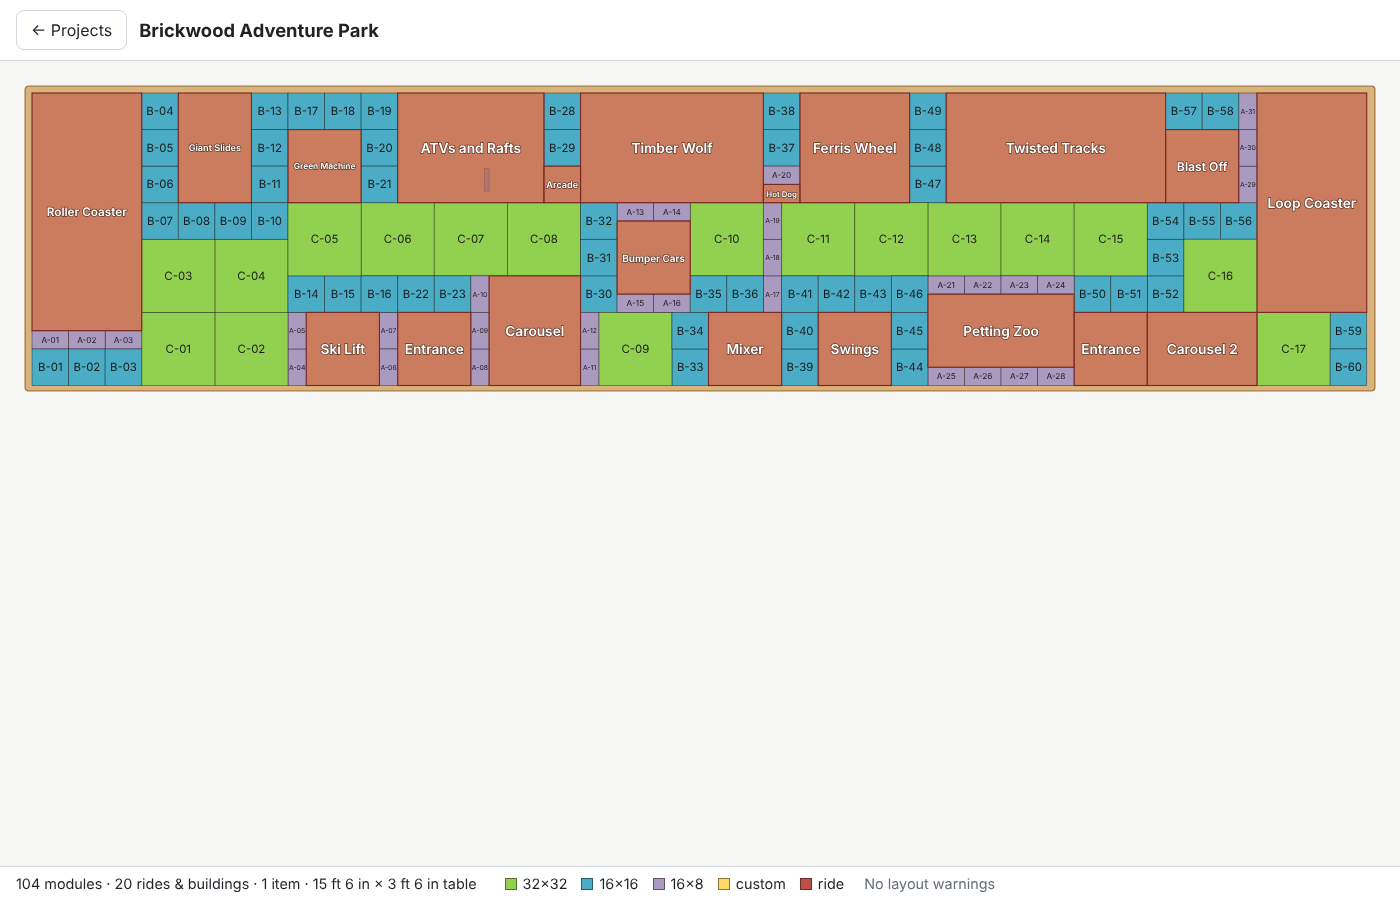
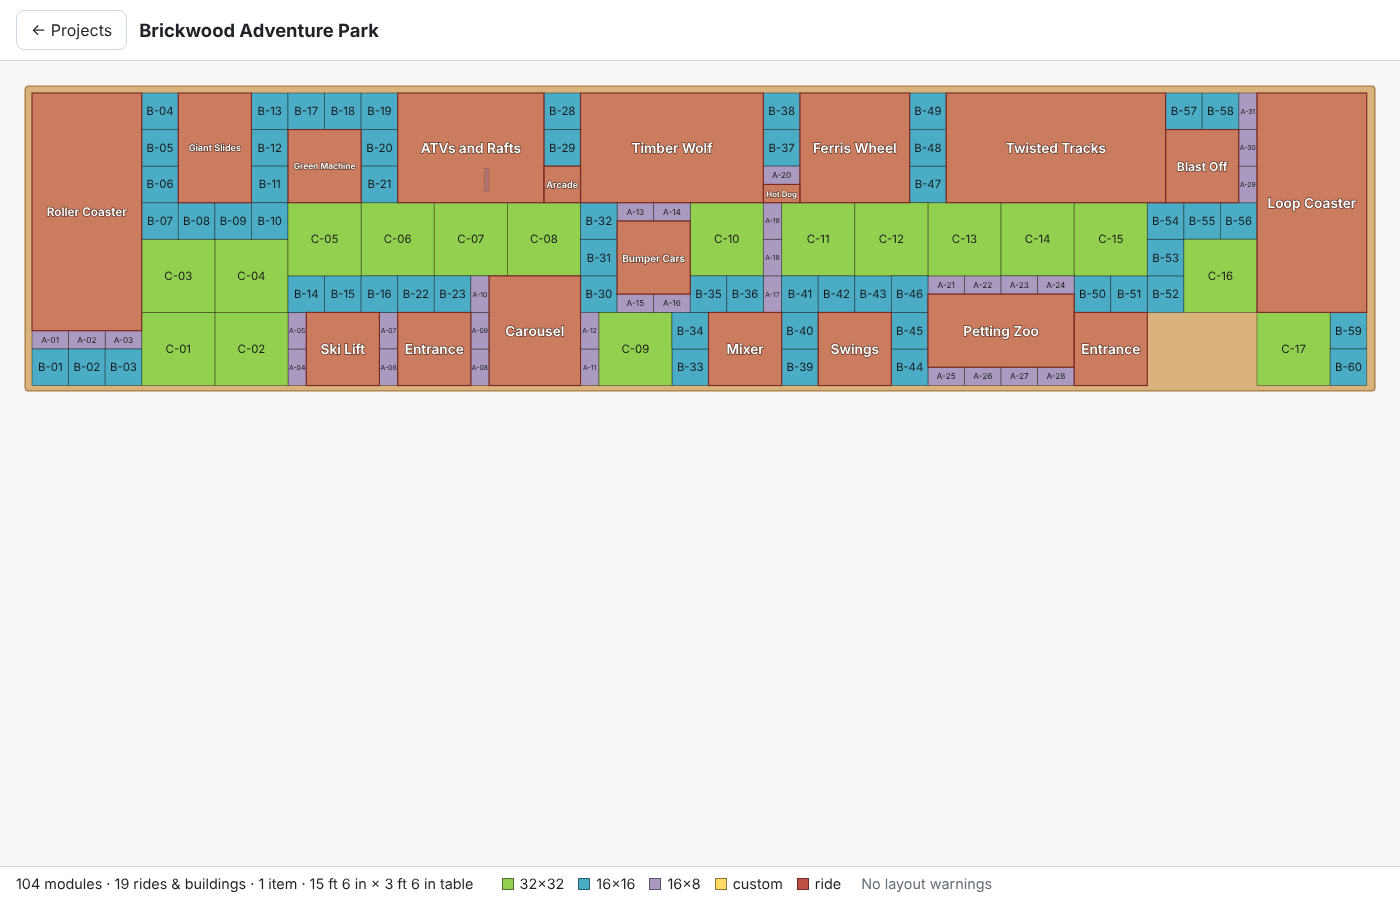
Apply owner answers: drop stored carousel, unlabelled Kingdom plates
- Carousel confirmed as the Big Carousel (9 V); the Small Carousel
  (Carousel 2) is in storage, so it is left out of the Adventure Park
  starter with an import note
- Kingdom buildings are built directly on their plate as one unit: MILS
  labels are now optional, those plates have no label, and the building
  name is shown instead; empty labels are skipped by the duplicate check
- Tests updated (37 unit, 12 browser, all passing); report and
  screenshots refreshed

Claude-Session: https://claude.ai/code/session_01TiwodiqoiEvFL33jxuKAek

Changed region(s): [[0.7986, 0.3422, 0.9214, 0.4356], [0.3686, 0.9644, 0.7064, 0.9956], [0.0921, 0.9644, 0.3379, 0.9956]]

diff --git a/tests/unit/starters.test.ts b/tests/unit/starters.test.ts
@@ -1,6 +1,6 @@
 import { describe, expect, it } from 'vitest';
 import { starterProjects } from '../../src/starters';
-import { checkLayout, footprint } from '../../src/domain/geometry';
+import { checkLayout } from '../../src/domain/geometry';
 import { ProjectSchema } from '../../src/domain/schema';
 import { projectStats } from '../../src/domain/project';
 import { studsToInches } from '../../src/domain/units';
@@ -29,15 +29,18 @@ describe('starter projects from Visio CSV', () => {
   it('Adventure Park ride footprints carry names and power', () => {
     const rides = park!.project.objects.filter((o) => o.type === 'footprint');
     const names = rides.map((r) => r.name);
-    for (const n of ['Ferris Wheel', 'Timber Wolf', 'Roller Coaster', 'Loop Coaster', 'Twisted Tracks', 'Carousel', 'Carousel 2', 'Swings', 'Mixer', 'Blast Off', 'Green Machine', 'Bumper Cars', 'ATVs and Rafts', 'Ski Lift', 'Giant Slides', 'Petting Zoo', 'Entrance', 'Arcade', 'Hot Dog']) {
+    for (const n of ['Ferris Wheel', 'Timber Wolf', 'Roller Coaster', 'Loop Coaster', 'Twisted Tracks', 'Carousel', 'Swings', 'Mixer', 'Blast Off', 'Green Machine', 'Bumper Cars', 'ATVs and Rafts', 'Ski Lift', 'Giant Slides', 'Petting Zoo', 'Entrance', 'Arcade', 'Hot Dog']) {
       expect(names).toContain(n);
     }
     expect(rides.find((r) => r.name === 'Ferris Wheel')!.powerVolts).toBe(9);
     expect(rides.find((r) => r.name === 'Green Machine')!.powerVolts).toBe(6);
-    // Carousel 2 is rotated 90° in the drawing: 15 in wide on screen.
-    const c2 = rides.find((r) => r.name === 'Carousel 2')!;
-    expect(footprint(c2).width).toBe(48);
-    expect(footprint(c2).depth).toBe(32);
+    expect(rides.find((r) => r.name === 'Carousel')!.powerVolts).toBe(9);
+    expect(rides).toHaveLength(19);
+  });
+
+  it('the Small Carousel (Carousel 2) is in storage, so it is left out with a note', () => {
+    expect(park!.project.objects.some((o) => o.name === 'Carousel 2')).toBe(false);
+    expect(park!.notes.find((n) => n.label === 'Carousel 2')!.message).toMatch(/in storage/);
   });
 
   it('Visio Y-up is flipped to app Y-down', () => {
@@ -61,6 +64,16 @@ describe('starter projects from Visio CSV', () => {
     expect(size('Farmhouse')).toEqual([32, 48, 'custom']);
     expect(size('Sentry Tower')).toEqual([32, 32, '32x32']);
     expect(size("Witch’s House")).toEqual([32, 32, '32x32']);
+  });
+
+  it('Kingdom buildings built directly on their plate are one unit with no plate ID', () => {
+    const bases = kingdom!.project.modules.filter((m) => m.name);
+    expect(bases).toHaveLength(14);
+    for (const b of bases) {
+      expect(b.label).toBe('');
+      expect(b.notes).toMatch(/one unit/);
+    }
+    expect(new Set(kingdom!.project.modules.map((m) => m.id)).size).toBe(39);
   });
 
   it('every module sits on the table with no module overlaps and whole-stud positions', () => {

diff --git a/src/starters/visioImport.ts b/src/starters/visioImport.ts
@@ -47,6 +47,8 @@ export interface StarterSpec {
   table: { name: string; widthIn: number; depthIn: number; notes: string };
   /** Retired MILS labels that must never be reused. */
   retiredLabels: string[];
+  /** Shapes left out of the starter, by cleaned name, with the reason. */
+  exclude: Record<string, string>;
   /** Ride power in volts by footprint name. */
   power: Record<string, number>;
   notes: Record<string, string>;
@@ -101,9 +103,8 @@ function classify(row: VisioRow, notes: ImportNote[]): Classified | null {
   if (KINGDOM_MODULE.test(row.label)) return { kind: 'module', label: row.label, name: '', row };
   if (row.fill === '#ffd965') {
     // Kingdom custom bases: named plates with no ID on the drawing.
-    const name = cleanName(row.label);
-    notes.push({ label: name, message: 'Custom base has no MILS ID on the drawing; its name is used as the label. Set the real ID when known.' });
-    return { kind: 'module', label: name, name, row };
+    // Kingdom buildings are built directly on their plate: one unit, no plate ID needed.
+    return { kind: 'module', label: '', name: cleanName(row.label), row };
   }
   if (row.fill === ATTRACTION_FILL) return { kind: 'footprint', name: cleanName(row.label), row };
   notes.push({ label: row.label, message: 'Unfilled shape imported as a generic item.' });
@@ -114,7 +115,14 @@ export function buildStarterProject(spec: StarterSpec, allRows: VisioRow[], crea
   const notes: ImportNote[] = [];
   const rows = allRows.filter((r) => r.display === spec.display);
   if (rows.length === 0) throw new Error(`No rows for display ${spec.display}`);
-  const shapes = rows.map((r) => classify(r, notes)).filter((c): c is Classified => c !== null);
+  const shapes = rows
+    .map((r) => classify(r, notes))
+    .filter((c): c is Classified => c !== null)
+    .filter((c) => {
+      const reason = spec.exclude[c.name];
+      if (reason) notes.push({ label: c.name, message: `Left out: ${reason}` });
+      return !reason;
+    });
 
   // Visual (rotated) box of each shape in Visio inches.
   const box = (r: VisioRow) => {
@@ -165,7 +173,7 @@ export function buildStarterProject(spec: StarterSpec, allRows: VisioRow[], crea
     const y = toStuds(maxTop - b.top) + offsetY;
     if (s.kind === 'module') {
       modules.push({
-        id: sid(`module:${s.label}`),
+        id: sid(`module:${s.label || s.name}`),
         levelId,
         layerId: moduleLayer,
         kind: milsKindForSize(width, depth),
@@ -176,7 +184,7 @@ export function buildStarterProject(spec: StarterSpec, allRows: VisioRow[], crea
         width,
         depth,
         rotation: b.rot,
-        notes: '',
+        notes: s.label ? '' : 'Built directly on its plate; moves as one unit.',
         color: s.row.fill || undefined,
       });
     } else {

diff --git a/src/domain/geometry.ts b/src/domain/geometry.ts
@@ -1,5 +1,5 @@
 // Renderer-independent geometry. Nothing here may depend on canvas/DOM state.
-import type { Project, Rotation } from './schema';
+import { moduleDisplayName, type Project, type Rotation } from './schema';
 
 export interface Rect {
   x: number;
@@ -86,6 +86,7 @@ export function checkLayout(project: Project): LayoutWarning[] {
   const labelCounts = new Map<string, string[]>();
   for (const m of project.modules) {
     const key = m.label.trim().toUpperCase();
+    if (!key) continue;
     labelCounts.set(key, [...(labelCounts.get(key) ?? []), m.id]);
   }
   for (const [label, ids] of labelCounts) {
@@ -96,7 +97,7 @@ export function checkLayout(project: Project): LayoutWarning[] {
   }
   const retired = new Set(project.retiredLabels.map((l) => l.trim().toUpperCase()));
   for (const m of project.modules) {
-    if (retired.has(m.label.trim().toUpperCase())) {
+    if (m.label.trim() && retired.has(m.label.trim().toUpperCase())) {
       warnings.push({ kind: 'retiredLabel', levelId: m.levelId, ids: [m.id], message: `MILS ID ${m.label} was retired and should not be reused` });
     }
   }
@@ -112,7 +113,7 @@ export function checkLayout(project: Project): LayoutWarning[] {
         const r = footprint(item);
         // Allowed if fully inside any single table (multi-table joins are modelled as one surface).
         if (!tableRects.some((t) => rectContains(t, r))) {
-          const label = 'label' in item ? item.label : item.name || 'Object';
+          const label = 'label' in item ? moduleDisplayName(item) : item.name || 'Object';
           warnings.push({ kind: 'overhang', levelId: level.id, ids: [item.id], message: `${label} overhangs ${surfaceName}` });
         }
       }
@@ -123,7 +124,7 @@ export function checkLayout(project: Project): LayoutWarning[] {
       for (let j = i + 1; j < mods.length; j++) {
         const a = mods[i]!, b = mods[j]!;
         if (rectsOverlap(footprint(a), footprint(b))) {
-          warnings.push({ kind: 'moduleOverlap', levelId: level.id, ids: [a.id, b.id], message: `${a.label} overlaps ${b.label}` });
+          warnings.push({ kind: 'moduleOverlap', levelId: level.id, ids: [a.id, b.id], message: `${moduleDisplayName(a)} overlaps ${moduleDisplayName(b)}` });
         }
       }
     }

diff --git a/src/domain/schema.ts b/src/domain/schema.ts
@@ -58,8 +58,11 @@ export const MilsKindSchema = z.enum(MILS_KINDS);
 export const MilsModuleSchema = z.object({
   ...placed,
   kind: MilsKindSchema,
-  /** User-visible ID written on the back of the plate, e.g. B-07 or C01-V. Unique per project. */
-  label: z.string().min(1),
+  /**
+   * User-visible ID written on the back of the plate, e.g. B-07 or C01-V. Unique per project when set.
+   * Empty when the plate is not labelled, e.g. a building built directly on its plate (one unit).
+   */
+  label: z.string(),
   /** Optional descriptive name, e.g. "Food Court" or "Mountain Castle". */
   name: z.string().default(''),
   color: color.optional(),
@@ -162,6 +165,11 @@ export const MILS_COLORS: Record<MilsKind, string> = {
   '32x32': '#92d050',
   custom: '#ffd965',
 };
+
+/** Text that identifies a module on screen: its ID, else its name. */
+export function moduleDisplayName(m: Pick<MilsModule, 'label' | 'name'>): string {
+  return m.label.trim() || m.name.trim() || 'Unnamed module';
+}
 
 /** Infer the module kind from its size (either orientation). */
 export function milsKindForSize(width: number, depth: number): MilsKind {

diff --git a/src/starters/index.ts b/src/starters/index.ts
@@ -17,10 +17,12 @@ export const STARTER_SPECS: StarterSpec[] = [
       notes: 'Two 6 ft folding tables topped with a 3.5 × 15.5 ft surface (42 × 186 in).',
     },
     retiredLabels: ['B-24', 'B-25', 'B-26', 'B-27'],
+    exclude: {
+      'Carousel 2': 'the Small Carousel (7.5 V) is in storage and not part of the current display.',
+    },
     power: {
       'Loop Coaster': 4.5,
       'Blast Off': 4.5,
-      'Carousel 2': 7.5,
       'Twisted Tracks': 7.5,
       Swings: 9,
       'Ferris Wheel': 9,
@@ -35,8 +37,7 @@ export const STARTER_SPECS: StarterSpec[] = [
     notes: {
       'ATVs and Rafts': 'ATVs 4.5 V and Rafts 4.5 V (separate rides).',
       'Twisted Tracks': 'Left and right tracks, 7.5 V each.',
-      Carousel: 'Assumed to be the Big Carousel (9 V).',
-      'Carousel 2': 'Assumed to be the Small Carousel (7.5 V).',
+      Carousel: 'Big Carousel (9 V).',
     },
   },
   {
@@ -51,6 +52,7 @@ export const STARTER_SPECS: StarterSpec[] = [
       notes: '6 ft folding table topped with 3.5 × 8 ft plywood (42 × 96 in).',
     },
     retiredLabels: [],
+    exclude: {},
     power: {},
     notes: {},
   },

diff --git a/src/ui/OverheadPreview.tsx b/src/ui/OverheadPreview.tsx
@@ -1,5 +1,5 @@
 import { footprint, levelBounds } from '../domain/geometry';
-import { MILS_COLORS, type Project } from '../domain/schema';
+import { MILS_COLORS, moduleDisplayName, type Project } from '../domain/schema';
 
 interface Props {
   project: Project;
@@ -37,12 +37,13 @@ export function OverheadPreview({ project, labels = false, className }: Props) {
       })}
       {onLevel(project.modules).map((m) => {
         const r = footprint(m);
+        const text = moduleDisplayName(m);
         return (
           <g key={m.id} data-label={m.label}>
             <rect className="pv-module" x={r.x} y={r.y} width={r.width} height={r.depth} fill={m.color ?? MILS_COLORS[m.kind]} />
             {labels && (
-              <text className="pv-label" x={r.x + r.width / 2} y={r.y + r.depth / 2} fontSize={fitText(m.label, r.width, r.depth, 5)}>
-                {m.label}
+              <text className="pv-label" x={r.x + r.width / 2} y={r.y + r.depth / 2} fontSize={fitText(text, r.width, r.depth, 5)}>
+                {text}
               </text>
             )}
           </g>

diff --git a/tests/unit/domain.test.ts b/tests/unit/domain.test.ts
@@ -108,6 +108,13 @@ describe('geometry', () => {
     expect(checkLayout(p)).toEqual([]);
   });
 
+  it('unlabelled plates (buildings built on their plate) are not duplicate IDs', () => {
+    const p = createProject({ name: 'k', table: { widthIn: 24, depthIn: 24 } });
+    addModule(p, '', 0, 0).name = 'Tavern';
+    addModule(p, '', 32, 0).name = 'Church';
+    expect(checkLayout(p)).toEqual([]);
+  });
+
   it('warns about overhang, overlap, duplicate and retired labels without changing anything', () => {
     const p = createProject({ name: 'w', table: { widthIn: 12, depthIn: 12 } });
     addModule(p, 'C-01', 0, 0);

diff --git a/docs/milestone-1a-report.md b/docs/milestone-1a-report.md
@@ -20,8 +20,8 @@
   - importing a project that already exists creates a copy rather than overwriting;
   - invalid, foreign or newer-format files are rejected with a readable message.
 - **Both Visio displays as starter projects**, added automatically on first run:
-  - **Brickwood Adventure Park**: 104 modules (17 × 32×32, 56 × 16×16, 31 × 16×8), 20 ride/attraction footprints with power in volts, one 2×10 item, on a 42 × 186 in table.
-  - **Brickwood Kingdom (Village)**: 20 × 16×16 and 5 × 32×32 village modules plus 14 named custom bases, on a 42 × 96 in table.
+  - **Brickwood Adventure Park**: 104 modules (17 × 32×32, 56 × 16×16, 31 × 16×8), 19 ride/attraction footprints with power in volts, one 2×10 item, on a 42 × 186 in table.
+  - **Brickwood Kingdom (Village)**: 20 × 16×16 and 5 × 32×32 village modules plus 14 buildings built directly on their plates (one unit each, no plate ID), on a 42 × 96 in table.
   - Both import with **zero overlaps and zero overhang warnings**. Starter IDs are deterministic, so the same physical plate has the same UUID on every device.
 - **Basic dashboard**:
   - project cards with an overhead preview, plus New project (empty table or from either starter), Import, and a More menu (Rename, Duplicate, Export file, Checkpoints, Archive). Archived projects are hidden unless "Show archived" is ticked;
@@ -37,7 +37,7 @@ Screenshots: `docs/screenshots/` (dashboard, Adventure Park, Kingdom, iPad viewp
 | `npm ci` | OK, 0 vulnerabilities |
 | `npm run lint` | OK, 0 problems |
 | `npm run typecheck` | OK |
-| `npm test` | **34 / 34 passed** (3 files) |
+| `npm test` | **37 / 37 passed** (3 files) |
 | `npm run build` | OK (479 kB JS, 140 kB gzipped) |
 | `npm run test:e2e` | **12 / 12 passed** (6 scenarios × desktop Chrome + iPad touch viewport) |
 
@@ -82,15 +82,20 @@ Browser smoke tests cover:
   - `C10` → **`C-10`**, to match the A-xx/B-xx/C-xx convention;
   - two zero-size connector lines in the Adventure Park drawing were skipped;
   - one unfilled `2x10` shape was imported as a generic item;
-  - the 14 Kingdom custom bases have no MILS ID on the drawing, so **their name is used as the label** until real IDs are entered.
+  - the 14 Kingdom buildings (Tavern, Mountain Castle and so on) are built directly on their plate and move as one unit, so **they have no plate ID**; the building name is shown instead;
+  - *Carousel 2* (the Small Carousel) is **left out**: it is in storage and not part of the current display. No modules were under it, so the table has an empty 48 × 32-stud space there.
 - `AdventurePark_BaseplatesWithComponents_v5` (the older layout) was **not** imported as a project. Its marker vocabulary is captured in `src/domain/markers.ts` for the object editor in 1C.
 
-## Decisions for the owner to confirm
+## Owner answers (30 Oct 2026)
 
-1. **Carousel power:** I assumed the larger *Carousel* footprint is the **Big Carousel (9 V)** and *Carousel 2* is the **Small Carousel (7.5 V)**. This is noted on each footprint.
-2. **Kingdom custom-base IDs:** what are the real IDs written on the backs of Mountain Castle, Tavern, Sentry Tower and the other bases?
-3. **Duplicate keeps module IDs:** a duplicated project refers to the *same physical plates*, so module UUIDs are kept and only the project ID is new. Say if you would rather duplicates get new module identities.
-4. **The CSV's "16×8" (A-xx) modules** are supported as a standard size alongside the spec's 32×16.
+- **Carousel:** confirmed — *Carousel* is the Big Carousel (9 V); the Small Carousel is in storage and not in the display, so it was removed from the starter.
+- **Kingdom buildings:** built directly on their MILS plate as one unit; plates don't need labels. MILS IDs are now optional; unlabelled plates are shown by name and skipped by the duplicate-ID check.
+
+## Still open
+
+1. **Table length:** you mentioned the "12 ft display", but the decisions file gives the Adventure Park surface as 3.5 × 15.5 ft (42 × 186 in), which is what the starter uses. Which is right?
+2. **Duplicate keeps module IDs:** a duplicated project refers to the *same physical plates*, so module UUIDs are kept and only the project ID is new. Say if you would rather duplicates get new module identities.
+3. **The CSV's "16×8" (A-xx) modules** are supported as a standard size alongside the spec's 32×16.
 
 ## Known gaps / honest notes
 
